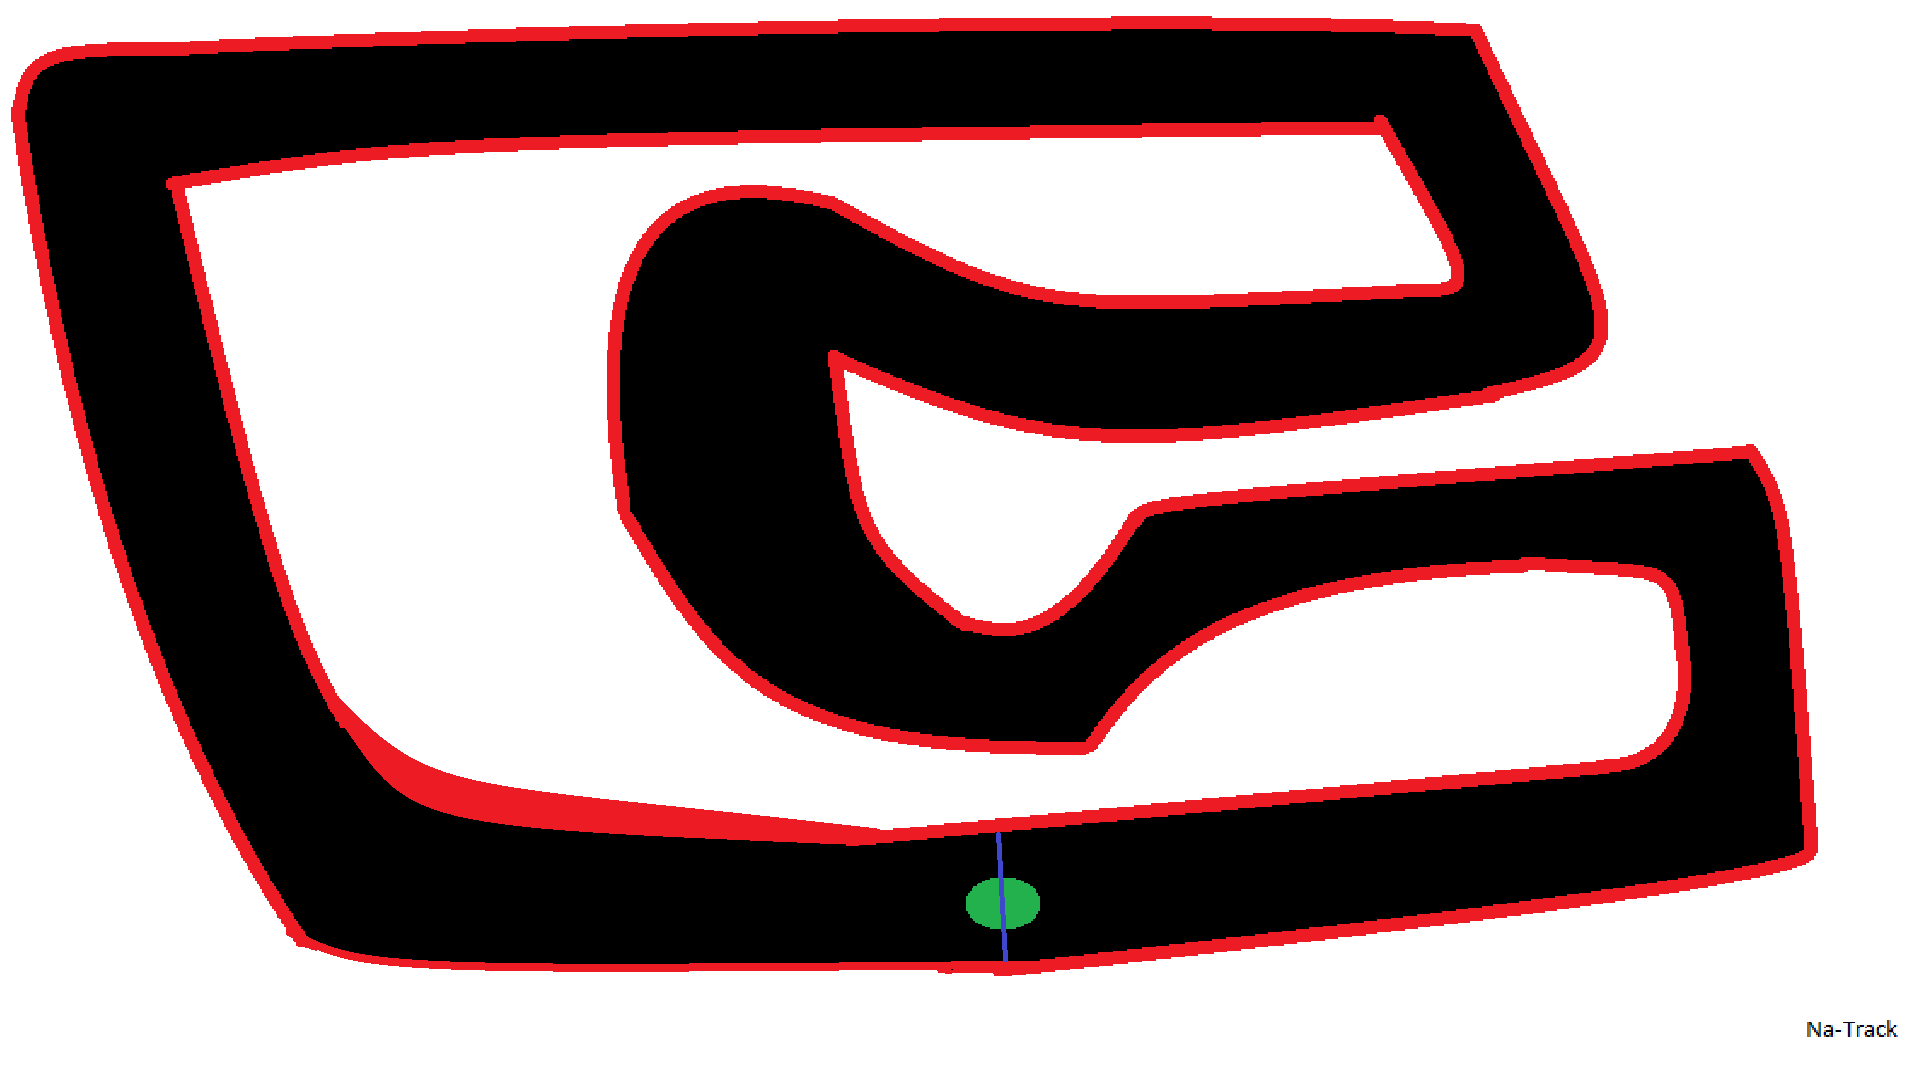
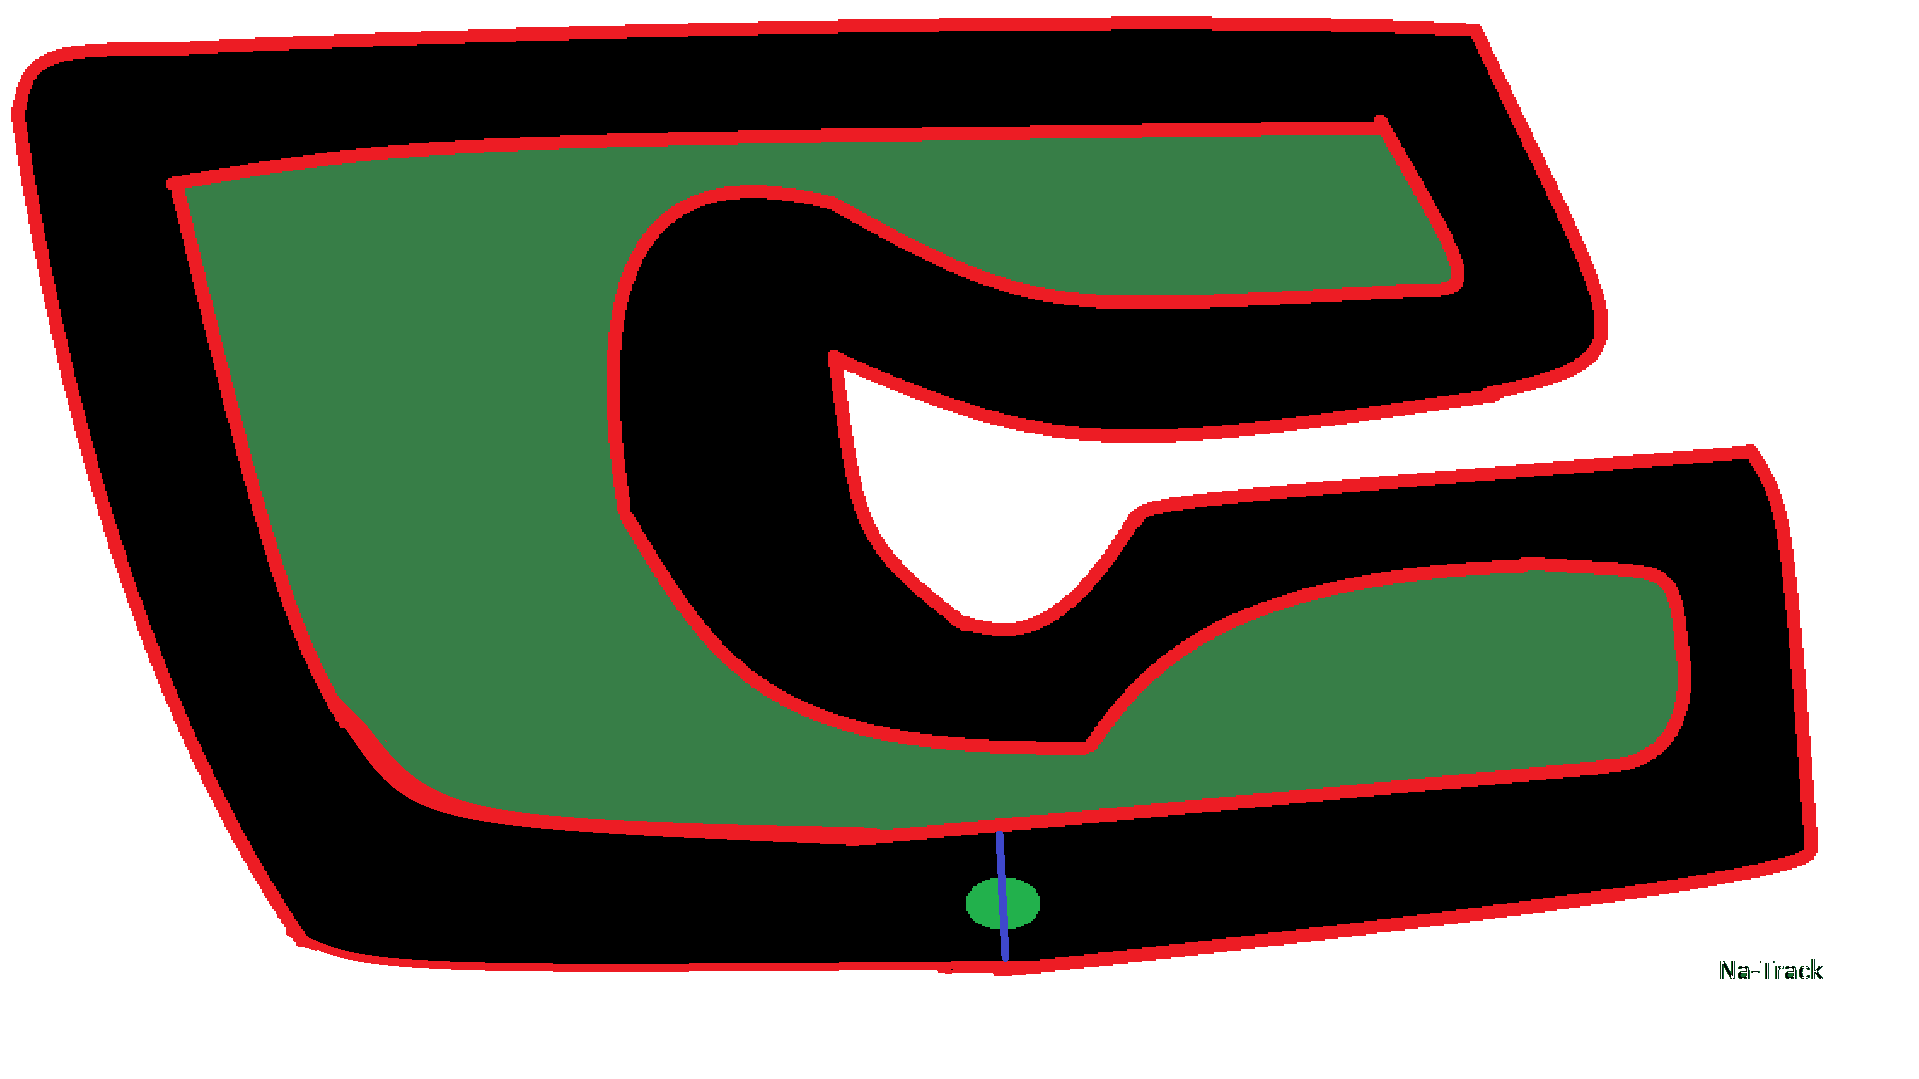
mainpy

Changed region(s): [[0.0922, 0.1223, 0.8916, 0.7952], [0.9224, 0.9481, 0.9838, 0.9787], [0.8916, 0.8869, 0.9531, 0.9175]]

diff --git a/temp.py b/temp.py
@@ -9,10 +9,10 @@ CAR_SIZE_X = 40
 CAR_SIZE_Y = 40
 BORDER_COLOR = (255, 255, 255, 255)  # Color To Crash on Hit
 GREEN_COLOR = (34, 177, 76)  # Color of the green spawn area
-RED_COLOR = (237, 28, 36)  # Color for radar detection
-BLUE_LINE_COLOR = (63, 72, 204)  # Color of the blue line
+RED_COLOR = (255, 127, 39)  # Color for radar detection
 #text_color = (255, 127, 39)
-
+#red = (237,28,36)
+#grass = (55, 126, 71)
 class Car:
     def __init__(self, game_map):
         self.sprite = pygame.image.load('car6.png').convert()
@@ -26,20 +26,13 @@ class Car:
         self.distance_forward = 0
         self.distance_backward = 0
         self.total_distance = 0
-        self.respawn_counter = 0  # Initialize respawn counter
         self.time = 0
-        self.timer = 0
         self.radars = []  # Store radar information here
 
         # Find initial position within green spawn area
         self.position = self.find_spawn_position(game_map)
         self.center = [self.position[0] + CAR_SIZE_X / 2, self.position[1] + CAR_SIZE_Y / 2]
         self.corners = []  # Store corner points of the car here
-
-        # Timer variables
-        self.timer_started = False
-        self.timer_reset = False
-        self.timer = 0
 
     def find_spawn_position(self, game_map):
         # Loop through the map to find a green area to spawn the car
@@ -118,7 +111,7 @@ class Car:
         return intersection_point
 
 
-    def draw(self, screen, respawn_counter, timer):
+    def draw(self, screen, respawn_counter, speed, acceleration, turning_angle):
         rotated_center = (self.position[0] + CAR_SIZE_X / 2, self.position[1] + CAR_SIZE_Y / 2)
         screen.blit(self.rotated_sprite, self.position)
         self.center = rotated_center  # Update center based on rotated position
@@ -136,16 +129,22 @@ class Car:
         distance_text = font.render("Forward Distance: {:.2f}".format(self.distance_forward), True, text_color)
         screen.blit(distance_text, (10, 130))  # Adjust position as needed
 
-        # Render timer on the screen
-        timer_text = font.render("Timer: {:.2f}".format(timer), True, text_color)
-        screen.blit(timer_text, (10, 160))  # Adjust position as needed
+        # Render speed, acceleration, and turning angle on the screen
+        speed_text = font.render("Speed: {:.2f}".format(speed), True, text_color)
+        screen.blit(speed_text, (10, 160))
+        
+        acceleration_text = font.render("Acceleration: {:.2f}".format(acceleration), True, text_color)
+        screen.blit(acceleration_text, (10, 190))
+        
+        angle_text = font.render("Turning Angle: {:.2f}".format(turning_angle), True, text_color)
+        screen.blit(angle_text, (10, 220))
 
 
     def check_collision(self, game_map):
         self.alive = True
         for point in self.corners:
             if game_map.get_at((int(point[0]), int(point[1]))) == BORDER_COLOR or \
-                    game_map.get_at((int(point[0]), int(point[1]))) == (255, 255, 255):  # Modified condition to check for white pixel as well
+                    game_map.get_at((int(point[0]), int(point[1]))) == (55, 126, 71):  # Modified condition to check for white pixel as well
                 self.alive = False
                 break
 
@@ -154,7 +153,8 @@ class Car:
         x = int(self.center[0] + math.cos(math.radians(360 - (self.angle + degree))) * length)
         y = int(self.center[1] + math.sin(math.radians(360 - (self.angle + degree))) * length)
 
-        while not game_map.get_at((x, y)) == BORDER_COLOR and length < 300:
+        while 0 <= x < game_map.get_width() and 0 <= y < game_map.get_height() \
+                and not game_map.get_at((x, y)) == BORDER_COLOR and not game_map.get_at((x, y)) == (55, 126, 71):
             length += 1
             x = int(self.center[0] + math.cos(math.radians(360 - (self.angle + degree))) * length)
             y = int(self.center[1] + math.sin(math.radians(360 - (self.angle + degree))) * length)
@@ -162,7 +162,8 @@ class Car:
         dist = int(math.sqrt(math.pow(x - self.center[0], 2) + math.pow(y - self.center[1], 2)))
         self.radars.append([(x, y), dist])
 
-    def update(self, game_map, keys, respawn_counter):
+
+    def update(self, game_map, keys):
         if not self.speed_set:
             self.speed = 0  # Ensure speed starts at 0
             self.speed_set = True
@@ -226,28 +227,7 @@ class Car:
             if dist[1] < 15:
                 self.alive = False
                 break
-        
-        if not self.alive:
-            self.timer = 0
-            respawn_counter += 1
-            print("Car died. Respawned. Iteration:", respawn_counter)
-            self.alive = True  # Make the car alive again
-            
-        # Check if the car passes the blue line
-        if game_map.get_at((int(self.center[0]), int(self.center[1]))) == BLUE_LINE_COLOR:
-            if not self.timer_started:
-                self.timer_started = True
-                self.timer_reset = False
-            else:
-                if not self.timer_reset:
-                    self.timer_reset = True
-                    self.timer = 0
-        else:
-            if self.timer_started and not self.timer_reset:
-                self.timer += 1 / 60  # Assuming the game runs at 60 frames per second
 
-        if game_map.get_at((int(self.center[0]), int(self.center[1]))) == (63, 72, 204):
-            self.timer = 0  # Reset the timer
         
     def rotate_center(self, image, angle):
         rectangle = image.get_rect()
@@ -305,7 +285,7 @@ def main():
 
     running = True
     respawn_counter = 0  # Counter to keep track of respawn iterations
-    timer = 0
+    prev_speed = 0
 
     while running:
         for event in pygame.event.get():
@@ -313,14 +293,20 @@ def main():
                 running = False
 
         keys = pygame.key.get_pressed()
-        car.update(game_map, keys, respawn_counter)  # Pass respawn counter to update method
+        car.update(game_map, keys)
 
+        speed = car.speed
+        acceleration = speed - prev_speed
+        turning_angle = car.angle
+        
         screen.fill((0, 0, 0))
         screen.blit(game_map, (0, 0))
-        car.draw(screen, respawn_counter, timer)  # Pass respawn counter and timer to draw method
+        car.draw(screen, respawn_counter, speed, acceleration, turning_angle)  # Pass speed, acceleration, and turning angle to draw method
 
         pygame.display.flip()
         clock.tick(60)
+
+        prev_speed = speed
 
         if not car.alive:
             respawn_counter += 1
@@ -331,12 +317,10 @@ def main():
             car.distance_forward = 0  # Reset forward distance
             car.distance_backward = 0  # Reset backward distance
 
-        # Increment timer if it's started
-        if car.timer_started:
-            timer += 1 / 60  # Assuming the game runs at 60 frames per second
-
     pygame.quit()
     sys.exit()
+
+
 
 if __name__ == "__main__":
     main()

diff --git a/main.py b/main.py
@@ -9,9 +9,10 @@ CAR_SIZE_X = 40
 CAR_SIZE_Y = 40
 BORDER_COLOR = (255, 255, 255, 255)  # Color To Crash on Hit
 GREEN_COLOR = (34, 177, 76)  # Color of the green spawn area
-RED_COLOR = (237, 28, 36)  # Color for radar detection
+RED_COLOR = (255, 127, 39)  # Color for radar detection
 #text_color = (255, 127, 39)
-
+#red = (237,28,36)
+#grass = (55, 126, 71)
 class Car:
     def __init__(self, game_map):
         self.sprite = pygame.image.load('car6.png').convert()
@@ -110,7 +111,7 @@ class Car:
         return intersection_point
 
 
-    def draw(self, screen, respawn_counter):
+    def draw(self, screen, respawn_counter, speed, acceleration, turning_angle):
         rotated_center = (self.position[0] + CAR_SIZE_X / 2, self.position[1] + CAR_SIZE_Y / 2)
         screen.blit(self.rotated_sprite, self.position)
         self.center = rotated_center  # Update center based on rotated position
@@ -128,13 +129,22 @@ class Car:
         distance_text = font.render("Forward Distance: {:.2f}".format(self.distance_forward), True, text_color)
         screen.blit(distance_text, (10, 130))  # Adjust position as needed
 
+        # Render speed, acceleration, and turning angle on the screen
+        speed_text = font.render("Speed: {:.2f}".format(speed), True, text_color)
+        screen.blit(speed_text, (10, 160))
+        
+        acceleration_text = font.render("Acceleration: {:.2f}".format(acceleration), True, text_color)
+        screen.blit(acceleration_text, (10, 190))
+        
+        angle_text = font.render("Turning Angle: {:.2f}".format(turning_angle), True, text_color)
+        screen.blit(angle_text, (10, 220))
 
 
     def check_collision(self, game_map):
         self.alive = True
         for point in self.corners:
             if game_map.get_at((int(point[0]), int(point[1]))) == BORDER_COLOR or \
-                    game_map.get_at((int(point[0]), int(point[1]))) == (255, 255, 255):  # Modified condition to check for white pixel as well
+                    game_map.get_at((int(point[0]), int(point[1]))) == (55, 126, 71):  # Modified condition to check for white pixel as well
                 self.alive = False
                 break
 
@@ -143,13 +153,15 @@ class Car:
         x = int(self.center[0] + math.cos(math.radians(360 - (self.angle + degree))) * length)
         y = int(self.center[1] + math.sin(math.radians(360 - (self.angle + degree))) * length)
 
-        while not game_map.get_at((x, y)) == BORDER_COLOR and length < 300:
+        while 0 <= x < game_map.get_width() and 0 <= y < game_map.get_height() \
+                and not game_map.get_at((x, y)) == BORDER_COLOR and not game_map.get_at((x, y)) == (55, 126, 71):
             length += 1
             x = int(self.center[0] + math.cos(math.radians(360 - (self.angle + degree))) * length)
             y = int(self.center[1] + math.sin(math.radians(360 - (self.angle + degree))) * length)
 
         dist = int(math.sqrt(math.pow(x - self.center[0], 2) + math.pow(y - self.center[1], 2)))
         self.radars.append([(x, y), dist])
+
 
     def update(self, game_map, keys):
         if not self.speed_set:
@@ -273,6 +285,7 @@ def main():
 
     running = True
     respawn_counter = 0  # Counter to keep track of respawn iterations
+    prev_speed = 0
 
     while running:
         for event in pygame.event.get():
@@ -282,12 +295,18 @@ def main():
         keys = pygame.key.get_pressed()
         car.update(game_map, keys)
 
+        speed = car.speed
+        acceleration = speed - prev_speed
+        turning_angle = car.angle
+        
         screen.fill((0, 0, 0))
         screen.blit(game_map, (0, 0))
-        car.draw(screen, respawn_counter)  # Pass respawn counter to draw method
+        car.draw(screen, respawn_counter, speed, acceleration, turning_angle)  # Pass speed, acceleration, and turning angle to draw method
 
         pygame.display.flip()
         clock.tick(60)
+
+        prev_speed = speed
 
         if not car.alive:
             respawn_counter += 1
@@ -300,7 +319,6 @@ def main():
 
     pygame.quit()
     sys.exit()
-
 
 
 
